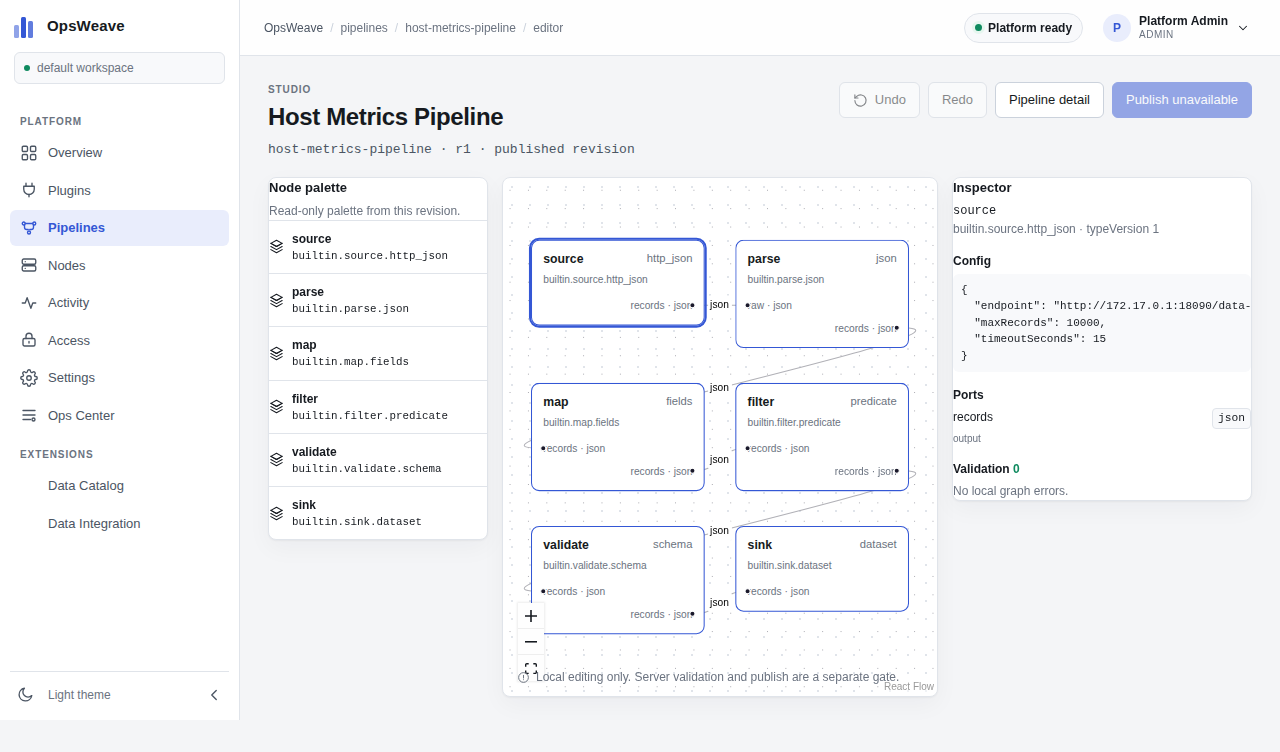
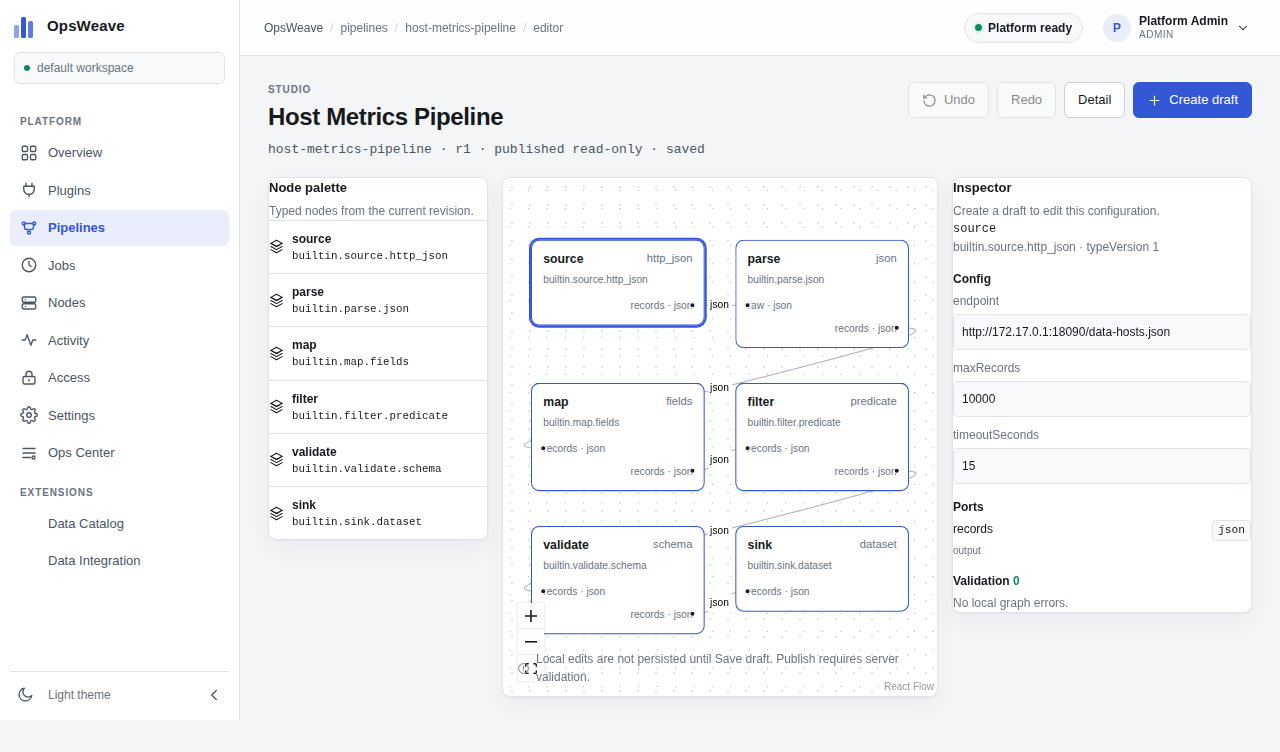
docs(studio): record overnight vertical-slice evidence and review

diff --git a/docs/acceptance/004-studio-overnight.md b/docs/acceptance/004-studio-overnight.md
@@ -1,0 +1,169 @@
+# 0.0.4 Overnight Studio Delivery — Evidence
+
+Status: `READY_FOR_REVIEW` for the vertical Studio slice; Preview is `NOT_IMPLEMENTED`.
+
+## Baseline / branches
+
+```text
+0.0.3 code:        30e792e (PR #2, Draft)
+Foundation base:   ea8cc60 → 3467965 (PR #3, Draft)
+Validation:        feat/0.0.4-validation (PR #4, Draft)
+Drafts/Execution:  feat/0.0.4-drafts (PR #5, Draft)
+Final code tested: cc871ae
+```
+
+PR #5 is stacked on PR #4, which is stacked on PR #3/0.0.3. No PR was merged or marked Ready.
+
+## Implemented vertical chain
+
+```text
+Login
+→ Pipeline List / Detail
+→ Open Studio
+→ Create Draft
+→ Edit source timeout in Inspector
+→ Save Draft (If-Match optimistic version)
+→ Refresh browser and reopen draft
+→ Server Validate
+→ Publish Draft (idempotent, atomic)
+→ New immutable Published Revision
+→ Run published revision
+→ Job Detail shows SUCCEEDED, Attempts, Fence, Result {accepted:2,batches:1}
+```
+
+### Server Validation
+
+`POST /api/v1/pipelines/validate`
+
+- Reuses `pipeline.rs::validate_pipeline`; recomputes canonical digest.
+- Live Catalog schema pin and trusted Node Registry.
+- Returns `valid/errors/warnings/canonicalOrder/planDigest/digest`.
+- No Revision, Job, Receipt or Catalog write.
+- Operator role required; request bounded by Axum body limit.
+
+### Draft persistence
+
+Migration `0011_pipeline_drafts.sql`; published revisions remain immutable.
+
+```text
+POST /api/v1/pipelines/{id}/drafts
+GET  /api/v1/pipelines/{id}/drafts
+GET  /api/v1/pipelines/{id}/drafts/{draftId}
+PUT  /api/v1/pipelines/{id}/drafts/{draftId}   + If-Match
+POST /api/v1/pipelines/{id}/drafts/{draftId}/publish + If-Match + Idempotency-Key
+```
+
+- Draft definition is stored separately with server-calculated digest.
+- Version is incremented with `WHERE version=$expected`; stale writes return
+  `409 DRAFT_VERSION_CONFLICT`.
+- Owner (or admin) visibility; update ownership enforced in SQL.
+- Publish allocates revision under `UPDATE ... latest_revision+1 RETURNING` in the
+  same transaction, revalidates, inserts the immutable revision and marks the draft.
+- Same Idempotency-Key returns the same revision; another draft reusing it returns
+  `409 IDEMPOTENCY_CONFLICT`; invalid DAG allocates no revision.
+
+### Jobs
+
+```text
+GET /api/v1/jobs?pipelineId=&status=&limit=&cursor=
+GET /api/v1/jobs/{jobId}
+GET /api/v1/jobs/{jobId}/result
+POST /api/v1/jobs
+POST /api/v1/jobs/{jobId}/cancel
+```
+
+Job list is cursor-paginated newest-first; status filter is allowlisted. Job result
+is read from `kernel.pipeline_job_results`. Studio Run page only offers published
+revisions; Drafts cannot be submitted.
+
+## Tests actually executed
+
+```text
+cargo fmt --all -- --check                                  PASS
+cargo clippy --locked --workspace --all-targets -- -D warnings PASS (branch CI)
+cargo test --locked -p opsweave-kernel                      36 passed
+pnpm --filter @opsweave/platform-web typecheck              PASS
+pnpm --filter @opsweave/platform-web build                  PASS
+pnpm --filter @opsweave/platform-web test:studio            7 passed
+tests/acceptance/pipeline_read_api.sh                       PASS
+tests/acceptance/pipeline_validation_api.sh                 PASS
+tests/acceptance/pipeline_draft_api.sh                      PASS
+tests/acceptance/pipeline_publish_api.sh                    PASS
+tests/acceptance/job_list_api.sh                            PASS
+Playwright studio.spec.ts                                   4 tests PASS
+```
+
+Playwright 4th test starts a real auto-claim `opsweave-pipeline-worker` against
+Kernel, waits for the submitted Job to become `SUCCEEDED`, and asserts the Result
+panel is rendered. It is not a timer-based mock.
+
+## CI
+
+Head `cc871ae`:
+
+- Data Foundation `40216437617`: attempt 1 SUCCESS.
+- Runtime `40216437610`: attempt 1 SUCCESS.
+- Contracts `40216437622`: SUCCESS.
+- Second attempts were requested; see the final report for the exact conclusion.
+
+## Screenshots (real Chromium, real PostgreSQL/Kernel)
+
+- [pipeline-list.png](../assets/0.0.4/pipeline-list.png)
+- [pipeline-detail.png](../assets/0.0.4/pipeline-detail.png)
+- [pipeline-canvas.png](../assets/0.0.4/pipeline-canvas.png)
+- [pipeline-draft-saved.png](../assets/0.0.4/pipeline-draft-saved.png)
+- [pipeline-validated.png](../assets/0.0.4/pipeline-validated.png)
+- [pipeline-published.png](../assets/0.0.4/pipeline-published.png)
+- [job-history.png](../assets/0.0.4/job-history.png)
+- [job-detail.png](../assets/0.0.4/job-detail.png)
+
+Browser/Viewport: Playwright Chromium Linux, 1280×720. Commit `cc871ae`.
+
+## Review findings
+
+### P0
+
+None found in the delivered vertical slice.
+
+### P1 (fixed)
+
+| Finding | Failure scenario | Fix | Commit |
+|---|---|---|---|
+| Published editor digest/status leaked into local edits | old PUBLISHED digest attached to modified definition | `fromGraph` always emits DRAFT + empty digest; server recomputes | `0e3517e` |
+| Inspector was editable without a Draft | user believes published revision is editable | inputs disabled; explicit create-draft notice | `0529c0b` |
+| Stale pipeline load could overwrite current page | rapid route/draft switch shows wrong pipeline | load sequence guard | `74e44ce` |
+| Initial React Flow layout set Dirty | opening Studio showed unsaved changes | compare IR nodes/edges to baseline; only real edits dirty | `0e3517e` |
+| Draft update updated another user's row | cross-user draft overwrite | SQL `created_by` ownership predicate | backend drafts commit |
+| Draft save error/refresh path could use stale cursor | Retry/Refresh no-op | reload token + cursor stack | `0e3517e` |
+
+### P2 / remaining debt
+
+- Server Validation errors carry code/message but not precise node/field IDs for
+  every `PipelineError`; client local validation supplies node IDs.
+- `GET /api/v1/jobs/{id}/result` exposes the bounded result output to any
+  authenticated viewer; per-tenant scope is not modeled in this version.
+- Job Detail exposes only durable Job fields and Result; Attempt/Checkpoint/Lease
+  history remains a diagnostics follow-up.
+- Preview / Dry-Run is `NOT_IMPLEMENTED`; no fake Preview button exists.
+- 1024/390/dark Studio screenshots and 64/128-node performance are `NOT_RUN`.
+- Responsive Studio canvas is desktop-first; mobile uses generic shell only.
+- Create Pipeline entry still comes from the API; no dedicated create page.
+- OpenAPI is updated for validation/draft/publish/job-list, but some legacy
+  create responses remain broader than implementation.
+
+## Gate matrix
+
+| Gate | Status |
+|---|---|
+| Foundation hardening | PASS |
+| Server validation | PASS |
+| Inspector editing | PASS |
+| Draft persistence / refresh | PASS |
+| Optimistic concurrency | PASS |
+| Atomic Publish / idempotency | PASS |
+| Immutable published revisions | PASS |
+| Job list/detail/result | PASS |
+| Real Worker completion E2E | PASS |
+| Preview | NOT_IMPLEMENTED |
+| Responsive/dark/Studio perf | NOT_RUN |
+| Diagnostics attempts/checkpoints | PARTIAL |
